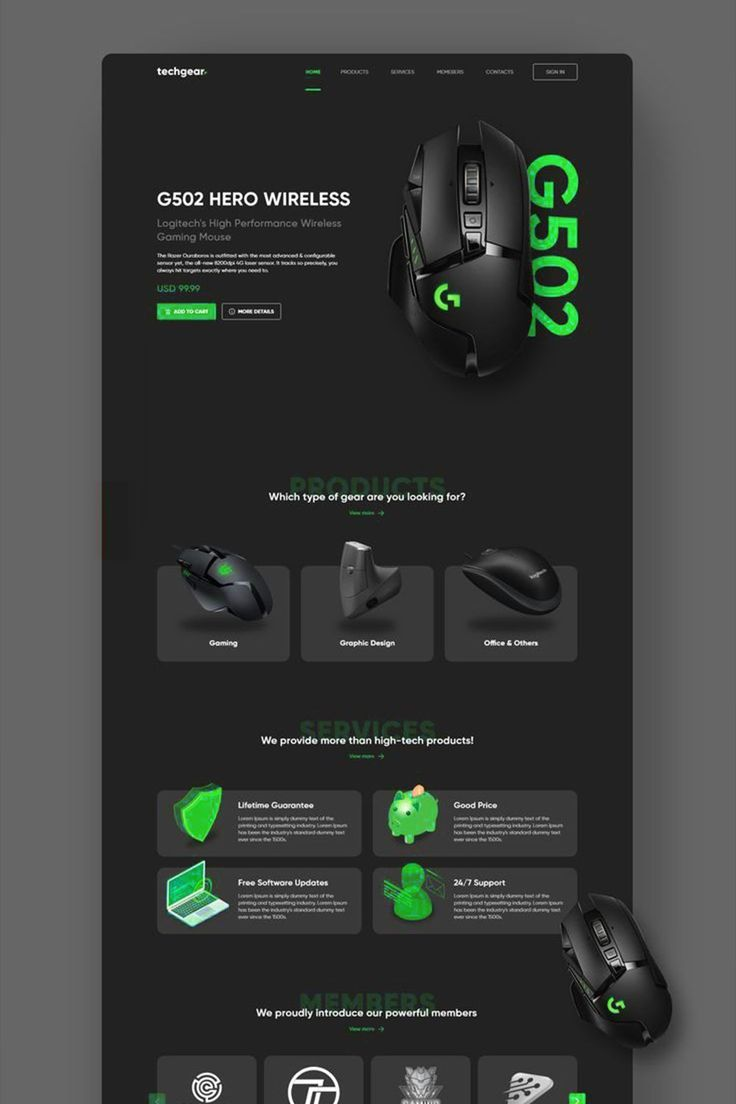
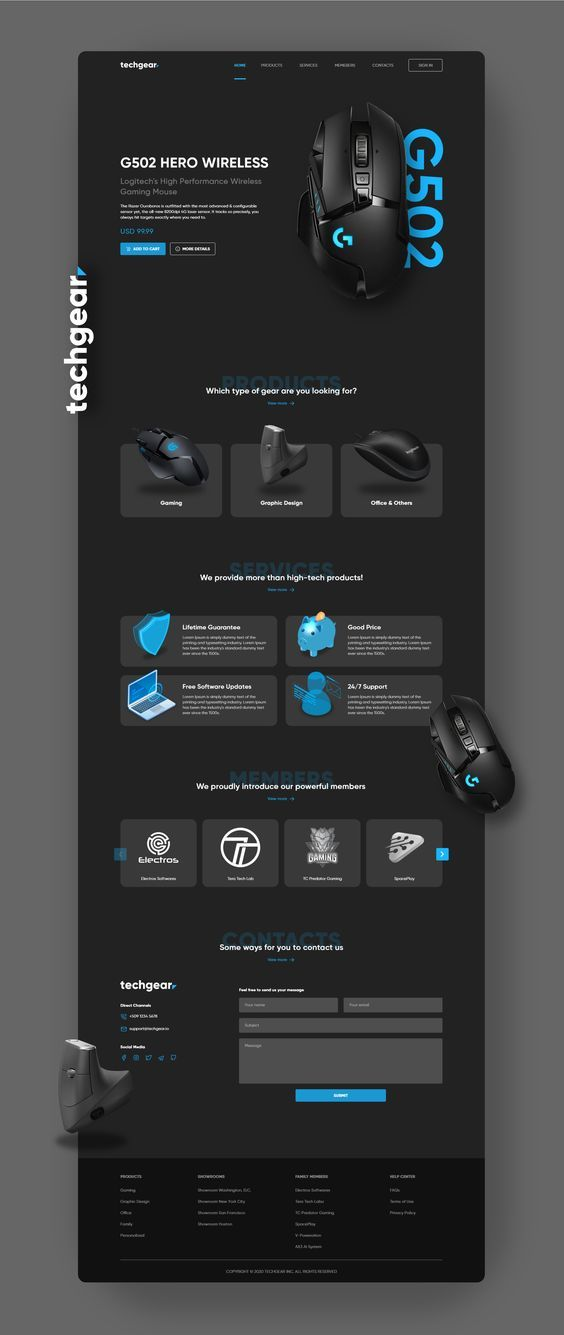
Mise à jour de la section "Services" avec ajout de nouveaux éléments graphiques et ajustements de style CSS

diff --git a/exercice2/code-aron/index.html b/exercice2/code-aron/index.html
@@ -126,15 +126,87 @@
         </div>
       </div>
     </section>
-    <section class="section-services" id="services">
+    <section class="section--products" id="service">
       <div class="container">
         <div class="background-element">
-          <h1>PRODUCTS</h1>
+          <h1>SERVICES</h1>
         </div>
         <div class="overlay-element">
           <p>which type of gear are you looking for ?</p>
 
           <a href="#produit" class="button-link">voir plus </a>
+          <div class="container-produits" id="container-services">
+            <div class="container-service" id="container-service">
+              <div class="container-img1" id="img1">
+                <img
+                  src="../elements graphiques/img/Armour.ee031629.png"
+                  alt=""
+                />
+              </div>
+              <div  id="img2">
+                <h2>securité assurer</h2>
+                <p>
+                  Lorem ipsum dolor sit, amet consectetur adipisicing elit.
+                  Laborum quidem, tempora consequatur sed blanditiis,
+                  consequuntur dolore obcaecati expedita sequi, autem iure.
+                
+                </p>
+              </div>
+            </div>
+            <div class="container-service" id="container-service">
+              <div class="container-img1" id="img1">
+                <img
+                  src="../elements graphiques/img/Piggy.f1afda0d.png"
+                  alt=""
+                />
+              </div>
+              <div  id="img2">
+                <h2>securité assurer</h2>
+                <p>
+                  Lorem ipsum dolor sit, amet consectetur adipisicing elit.
+                  Laborum quidem, tempora consequatur sed blanditiis,
+                  consequuntur dolore obcaecati expedita sequi, autem iure.
+                
+                </p>
+              </div>
+            </div>
+          </div>
+          <div class="container-produits " id="container-services services2">
+            <div class="container-service" id="container-service">
+              <div class="container-img1" id="img1">
+                <img
+                  src="../elements graphiques/img/Laptop.7c6be9b7.png"
+                  alt=""
+                />
+              </div>
+              <div  id="img2">
+                <h2>securité assurer</h2>
+                <p>
+                  Lorem ipsum dolor sit, amet consectetur adipisicing elit.
+                  Laborum quidem, tempora consequatur sed blanditiis,
+                  consequuntur dolore obcaecati expedita sequi, autem iure.
+                
+                </p>
+              </div>
+            </div>
+            <div class="container-service" id="container-service">
+              <div class="container-img1" id="img1">
+                <img
+                  src="../elements graphiques/img/Support.269615fe.png"
+                  alt=""
+                />
+              </div>
+              <div  id="img2">
+                <h2>securité assurer</h2>
+                <p>
+                  Lorem ipsum dolor sit, amet consectetur adipisicing elit.
+                  Laborum quidem, tempora consequatur sed blanditiis,
+                  consequuntur dolore obcaecati expedita sequi, autem iure.
+                
+                </p>
+              </div>
+            </div>
+          </div>
         </div>
       </div>
     </section>

diff --git a/exercice2/code-aron/style.css b/exercice2/code-aron/style.css
@@ -205,7 +205,7 @@ body {
   display: flex;
   justify-content: center;
   align-items: center;
-  gap: 4%;
+  gap: 3%;
   margin-top: 100px;
   margin-bottom: 100px;
 }
@@ -246,10 +246,59 @@ body {
 .container__product .container-img2 img {
   width: 68%;
   height: 100px;
-
 }
 
-.container__product p{
+.container__product p {
   position: relative;
   top: -75px;
+}
+
+#services {
+  margin-top: 500px;
+  margin-bottom: 100px;
+}
+
+#service {
+  margin-top: 600px;
+  margin-bottom: 100px;
+}
+#container-services {
+  margin-top: 130px;
+}
+
+.container-service {
+  width: 40%;
+  display: flex;
+  justify-content: center;
+  background-color: rgba(77, 75, 75, 0.932);
+  border-radius: 25px;
+  margin-bottom: -160px;
+}
+
+#img1 {
+  width: 35%;
+  position: relative;
+  top: -15px;
+}
+
+#img1 img {
+  width: 100%;
+  height: auto;
+}
+
+#img2 {
+  width: 60%;
+  display: flex;
+  justify-content: center;
+  flex-direction: column;
+}
+#img2 h2 {
+  color: white;
+  font-size: 24px;
+}
+#img2 p {
+  color: rgb(202, 202, 202);
+  font-size: 20px;
+  margin-top: 10px;
+  text-align: left;
 }
